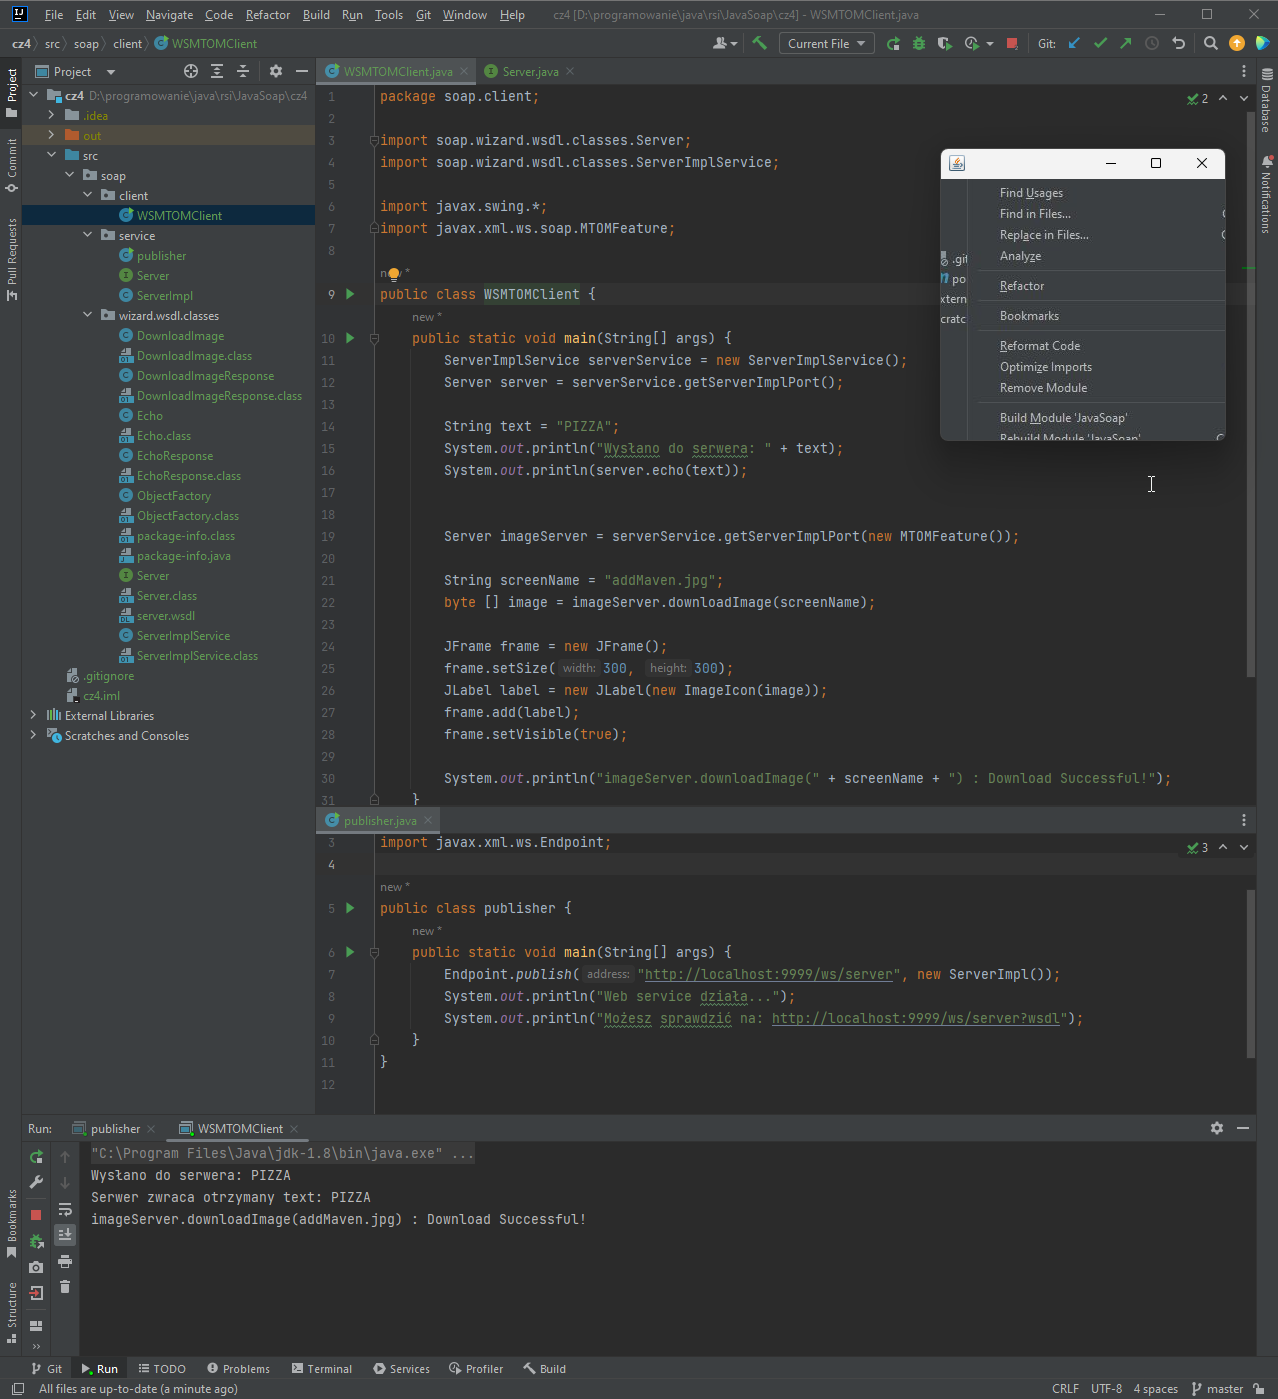
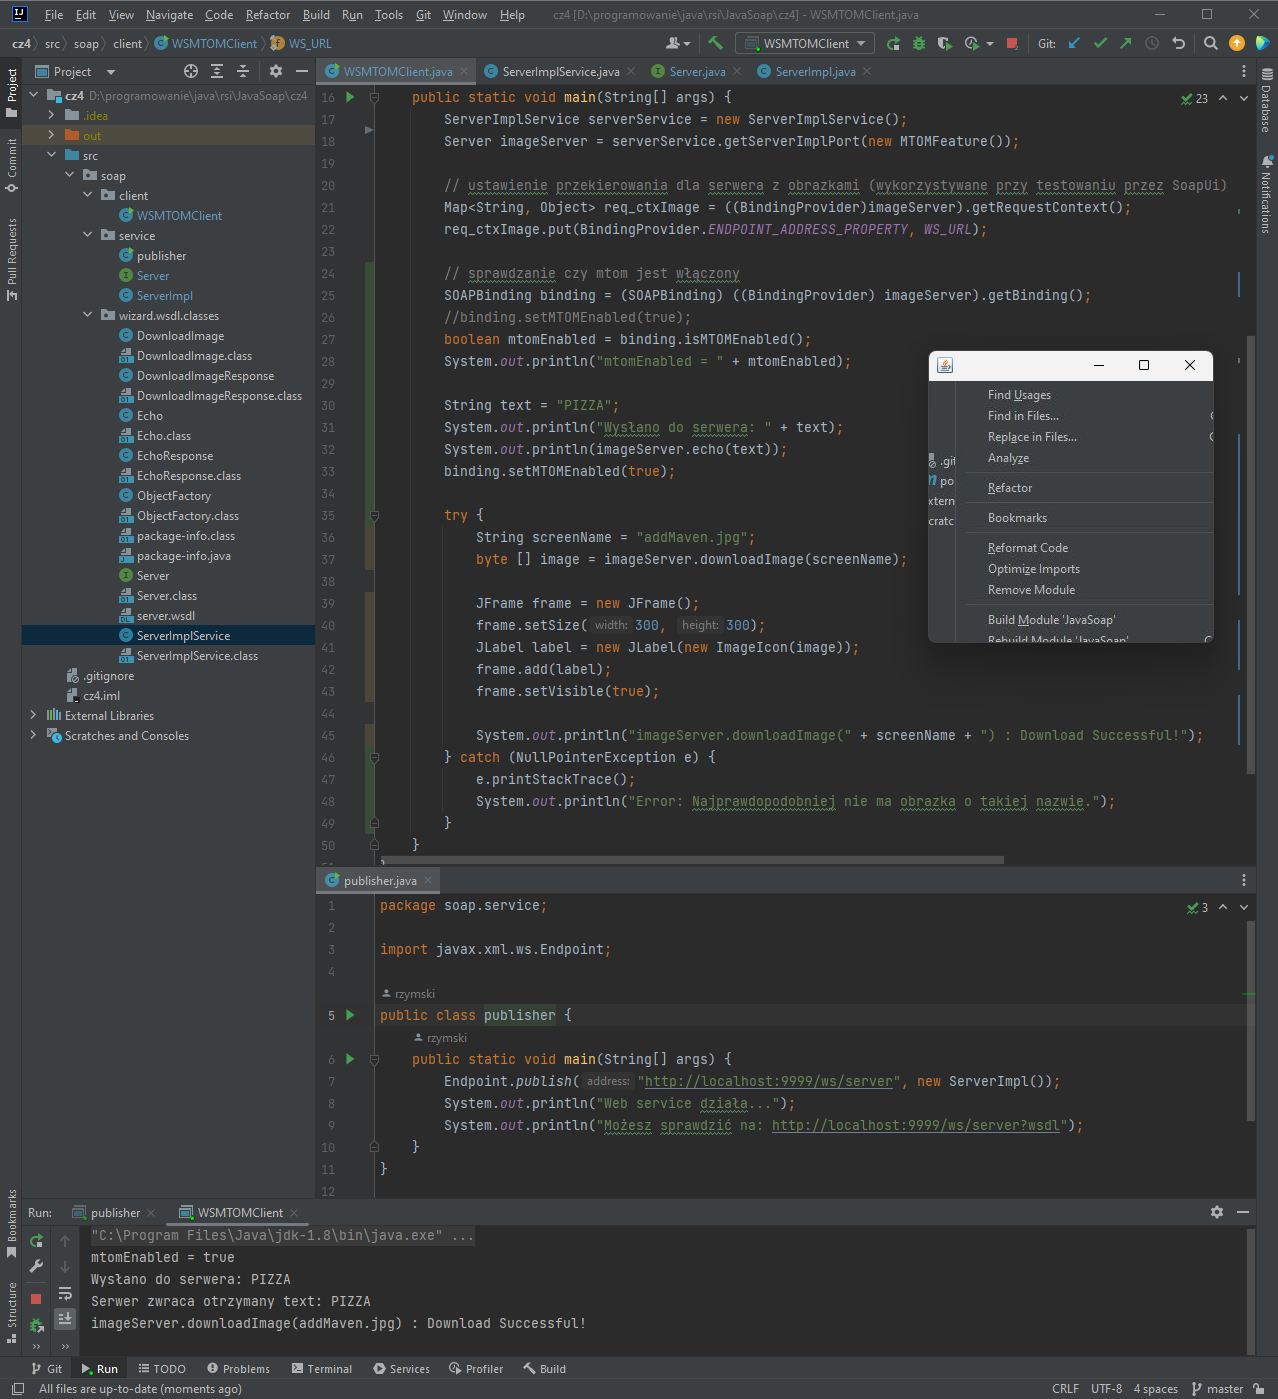
cz 4 zad 1 zmienione

diff --git a/cz4/src/soap/client/WSMTOMClient.java b/cz4/src/soap/client/WSMTOMClient.java
@@ -6,40 +6,46 @@ import soap.wizard.wsdl.classes.ServerImplService;
 import javax.swing.*;
 import javax.xml.ws.BindingProvider;
 import javax.xml.ws.soap.MTOMFeature;
+import javax.xml.ws.soap.SOAPBinding;
 import java.util.Map;
 
 public class WSMTOMClient {
-    private static final String WS_URL = "http://localhost:8080/ws/server"; // przy użyciu SoapUi httpMonitor tunnel ustawionym na porcie 8080
-    // private static final String WS_URL = "http://localhost:9999/ws/server"; // jeśli nie używamy SoaupUi
+    // private static final String WS_URL = "http://localhost:8080/ws/server"; // przy użyciu SoapUi httpMonitor tunnel ustawionym na porcie 8080
+    private static final String WS_URL = "http://localhost:9999/ws/server"; // jeśli nie używamy SoaupUi
 
     public static void main(String[] args) {
         ServerImplService serverService = new ServerImplService();
-        Server server = serverService.getServerImplPort();
-
-        // ustawienie przekierowania (wykorzystywane przy testowaniu przez SoapUi)
-        Map<String, Object> req_ctx = ((BindingProvider)server).getRequestContext();
-        req_ctx.put(BindingProvider.ENDPOINT_ADDRESS_PROPERTY, WS_URL);
-
-        String text = "PIZZA";
-        System.out.println("Wysłano do serwera: " + text);
-        System.out.println(server.echo(text));
-
-
         Server imageServer = serverService.getServerImplPort(new MTOMFeature());
 
         // ustawienie przekierowania dla serwera z obrazkami (wykorzystywane przy testowaniu przez SoapUi)
         Map<String, Object> req_ctxImage = ((BindingProvider)imageServer).getRequestContext();
         req_ctxImage.put(BindingProvider.ENDPOINT_ADDRESS_PROPERTY, WS_URL);
 
-        String screenName = "addMaven.jpg";
-        byte [] image = imageServer.downloadImage(screenName);
+        // sprawdzanie czy mtom jest włączony
+        SOAPBinding binding = (SOAPBinding) ((BindingProvider) imageServer).getBinding();
+        //binding.setMTOMEnabled(true);
+        boolean mtomEnabled = binding.isMTOMEnabled();
+        System.out.println("mtomEnabled = " + mtomEnabled);
 
-        JFrame frame = new JFrame();
-        frame.setSize(300, 300);
-        JLabel label = new JLabel(new ImageIcon(image));
-        frame.add(label);
-        frame.setVisible(true);
+        String text = "PIZZA";
+        System.out.println("Wysłano do serwera: " + text);
+        System.out.println(imageServer.echo(text));
+        binding.setMTOMEnabled(true);
 
-        System.out.println("imageServer.downloadImage(" + screenName + ") : Download Successful!");
+        try {
+            String screenName = "addMaven.jpg";
+            byte [] image = imageServer.downloadImage(screenName);
+
+            JFrame frame = new JFrame();
+            frame.setSize(300, 300);
+            JLabel label = new JLabel(new ImageIcon(image));
+            frame.add(label);
+            frame.setVisible(true);
+
+            System.out.println("imageServer.downloadImage(" + screenName + ") : Download Successful!");
+        } catch (NullPointerException e) {
+            e.printStackTrace();
+            System.out.println("Error: Najprawdopodobniej nie ma obrazka o takiej nazwie.");
+        }
     }
 }

diff --git a/cz4/src/soap/service/Server.java b/cz4/src/soap/service/Server.java
@@ -2,14 +2,14 @@ package soap.service;
 
 import javax.jws.WebMethod;
 import javax.jws.WebService;
-import javax.jws.soap.SOAPBinding;
+import javax.xml.ws.soap.SOAPBinding;
 import javax.xml.ws.BindingType;
 import javax.xml.ws.soap.MTOM;
 import java.awt.*;
 
 @MTOM
 @WebService(endpointInterface = "soap.service.Server")
-//@BindingType(value = SOAPBinding.SOAP11HTTP_MTOM_BINDING)
+@BindingType(value = SOAPBinding.SOAP11HTTP_MTOM_BINDING)
 public interface Server {
     @WebMethod
     String echo(String text);

diff --git a/cz4/src/soap/service/ServerImpl.java b/cz4/src/soap/service/ServerImpl.java
@@ -2,13 +2,16 @@ package soap.service;
 
 import javax.imageio.ImageIO;
 import javax.jws.WebService;
+import javax.xml.ws.BindingType;
 import javax.xml.ws.soap.MTOM;
+import javax.xml.ws.soap.SOAPBinding;
 import java.awt.*;
 import java.io.File;
 import java.io.IOException;
 
 @MTOM
 @WebService(endpointInterface = "soap.service.Server")
+@BindingType(value = SOAPBinding.SOAP11HTTP_MTOM_BINDING)
 public class ServerImpl implements Server {
     @Override
     public String echo(String text) {

diff --git a/cz3/src/soap/client/WebServiceClient2.java b/cz3/src/soap/client/WebServiceClient2.java
@@ -74,7 +74,7 @@ public class WebServiceClient2 {
 
         // wywołanie kalkulatora
         try {
-            System.out.println(server.calculator("/", 3.14, 0.0));
+            System.out.println(server.calculator("*", 3.15, 2.71));
         } catch (Exception e) {
             System.out.println("Wystąpił wyjątek: " + e.getMessage());
         }

diff --git a/cz2/src/main/java/soap/HelloWorldImpl.java b/cz2/src/main/java/soap/HelloWorldImpl.java
@@ -1,8 +1,6 @@
 package soap;
 
 import javax.jws.WebService;
-import javax.jws.soap.SOAPBinding;
-import javax.xml.ws.BindingType;
 import java.util.ArrayList;
 import java.util.List;
 

diff --git a/README.md b/README.md
@@ -5,6 +5,7 @@ ___
 W cz1 znajdują się zadania z JAXWS.pdf oraz 2 zadanie z JAXWScz2.pdf w folderze lavasoft  
 W cz2 znajdują się zadania z JAXWScz2.pdf (z wyjątkime 2)  
 W cz3 znajdują się zadania z JAXWScz3.pdf
+W cz4 znajduje się zadanie 1 z JAXWScz4.pdf
 
 W cz2 w celu wdrożenia aplikacji na serwer glassfish wykorzystano Inteliji premium.  
 Integracja z Maven:
@@ -75,7 +76,10 @@ W części 3 WSDL:
 Wyniki zadań w cz.3
 ![Alt text](screens/cz3zadaniaWynik.png?raw=true "Wynik wszystkich zadań z części 3")  
 Wyniki zadań w cz.3 w SoapUi  
-![Alt text](screens/cz3zadaniaWynikSoapUi.png?raw=true "Wynik wszystkich zadań z części 3")  
+![Alt text](screens/cz3zadaniaWynikSoapUi.png?raw=true "Wynik wszystkich zadań z części 3")
+
+Generowanie klas z WSDL za pomocą wizard-a w Intellij-i (wymaga pluginu Jakarta EE: Web Services (JAX-WS)):  
+![Alt text](screens/intelijiWizardGenerateWSDLClasses.jpg?raw=true "Wykorzystanie wizard-a w Intellij-i do wygenerowawania klas z WSDL ")
 
 Konfiguracja HTTP monitora:  
 ![Alt text](screens/cz3MonitorKonfiguracja1.jpg?raw=true "Konfiguracja monitora Http1")
@@ -89,9 +93,6 @@ W celu sprawdzenia działania programu przez SoapUi w programie też trzeba zmie
 Działanie HTTP monitora:
 ![Alt text](screens/cz3Monitor.png?raw=true "Konfiguracja monitora Http1")  
 
-Generowanie klas z WSDL za pomocą wizard-a w Intellij-i (wymaga pluginu Jakarta EE: Web Services (JAX-WS)):  
-![Alt text](screens/intelijiWizardGenerateWSDLClasses.jpg?raw=true "Wykorzystanie wizard-a w Intellij-i do wygenerowawania klas z WSDL ")
-
 
 Część 4
 ======
@@ -99,4 +100,6 @@ W części 4 WSDL:
 - http://localhost:9999/ws/server?WSDL
 
 Wynik zadania 1 w cz.4
-![Alt text](screens/cz4zad1Wynik.png?raw=true "Wynik zadania 1 z części 4")
+![Alt text](screens/cz4zad1Wynik.png?raw=true "Wynik zadania 1 z części 4")  
+Testowanie zadania 1 przez SoaupUi requesty:
+![Alt text](screens/cz4zad1SoapUiRequests.png?raw=true "Testowanie zadania 1 przez SoaupUi requesty")  
